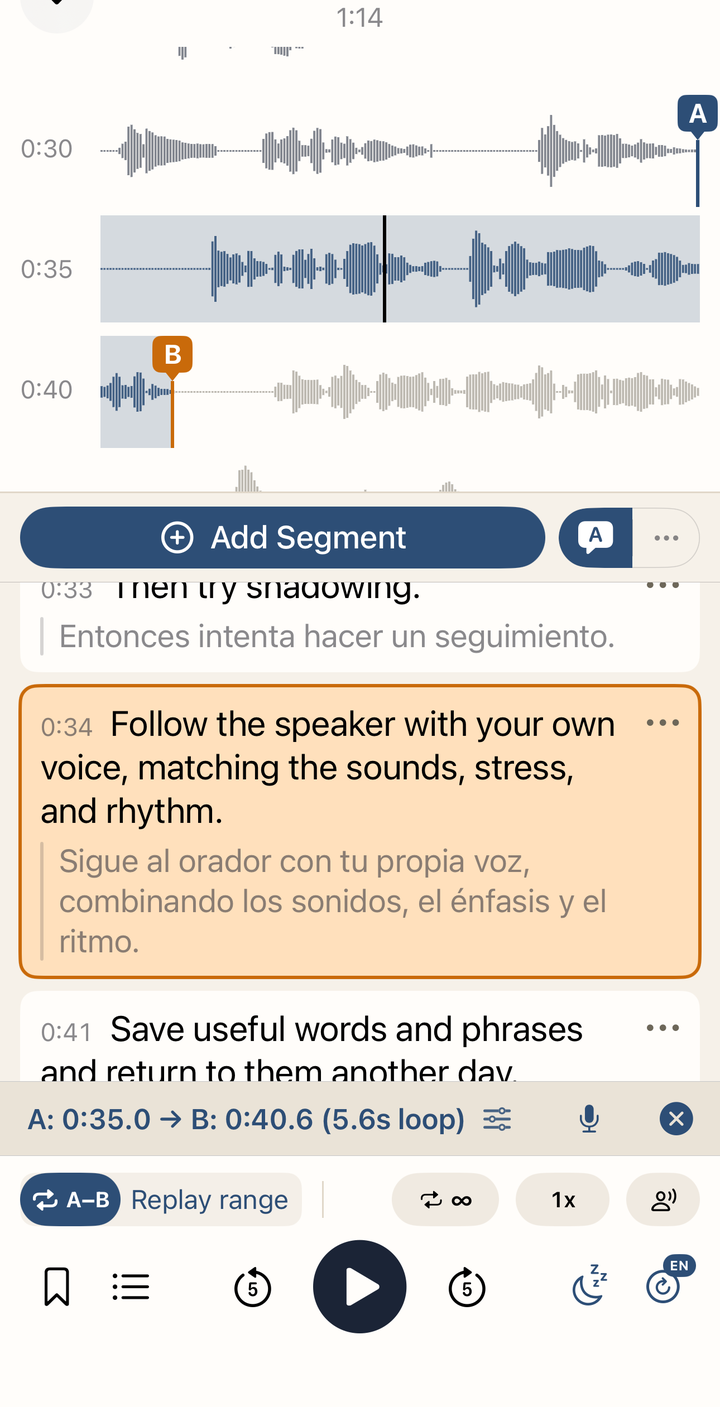
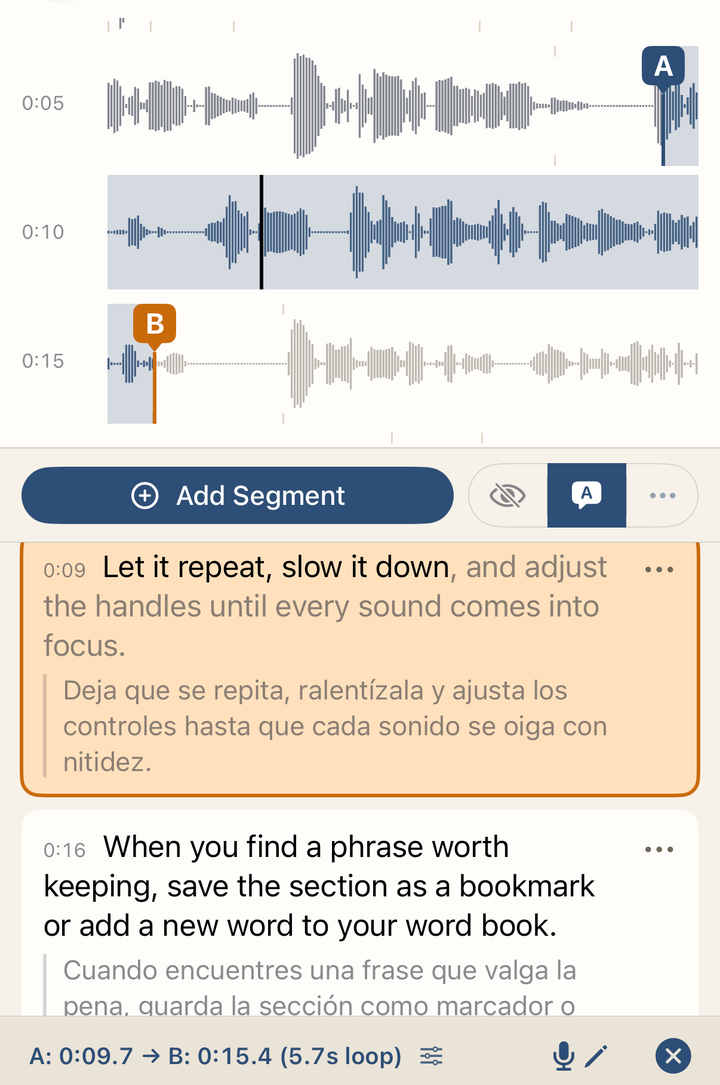
docs: the manual learns 3.1.0 — hiding subtitles, sentence timing, library select all
New 7-6 (hide subtitles: eye button, Entire file / Selected sentences /
A/B range, hidden cards still loop, not saved). 8-1 and 8-2 describe the
shared waveform timing editor, neighbour shortening and Restore original
range / text, replacing the retired 0.5-second steps and Reset. 2-2 gains
Select All and moving search results; 7-1 says Clear Script also removes
retimed sentences; 7-2 the empty-result retry; 7-4 drops the long-gone
Enter Manually. Free list gains hiding and timing.

Captures (iPhone 17 simulator, iOS 26.5, English, 3.1.0 build 29 tree):
new 35 hide menu, 36 A/B range hidden, 37 timing editor; 26 and 25
re-shot. 25's Spanish translation was written into the store on the
simulator, which cannot run Apple Intelligence translation.

using Claude Opus 5.5

diff --git a/en.md b/en.md
@@ -84,7 +84,9 @@ Tap **⋯** at the end of a library row, or touch and hold the row, to open the 
 
 Once at least one favorite exists, the **All / Favorites** chips appear below the wordmark; **Favorites** shows a flat list across the whole library, regardless of folder.
 
-Use **More > New Folder** to create folders. When folders exist, **More > Select** lets you select multiple items and move them together, and **All Items** opens the whole library in one list. Folders can contain other folders.
+Use **More > New Folder** to create folders. When folders exist, **More > Select** lets you select multiple items and move them together. While selecting, **Select All** at the top left picks every file and folder in the list you are viewing; tap it again (**Deselect All**) to clear the selection. Moving a folder moves everything inside it. **All Items** opens the whole library in one list. Folders can contain other folders.
+
+You can also select and move search results. After typing a search, tap **More > Select** (in **All Items**, the **Select** button at the top right) to pick results from different folders at once and move them into one folder. If you have no folders yet, you can create one on the screen where you choose the destination. Changing the search clears the selection.
 
 ### 2-3. Item Types
 Icons and thumbnails help you identify each item type.
@@ -274,7 +276,7 @@ If a file already has subtitles, tapping the subtitle button shows these options
 
 - **Re-run with current language** - Convert again with the current language
 - **Change Language and Re-run** - Change the language and convert again
-- **Clear Script** - Delete the automatically generated subtitles
+- **Clear Script** - Delete the automatically generated subtitles. Sentences whose timing you adjusted are deleted too; sentences you added or whose text you edited are kept
 
 When there are no subtitles yet, long-pressing the subtitle button lets you choose the language before conversion.
 
@@ -291,6 +293,7 @@ Important:
 - Long audio can take several minutes.
 - If you cancel, this conversion stops and existing subtitles are kept.
 - Model downloads and some recovery steps are affected by your Wi-Fi settings.
+- If recognition comes back empty, **Trying another recognition method…** appears and the app tries once more with a different method. If it still cannot create subtitles, a message asks you to check that the audio plays and that the selected language matches. If the file could not be read to the end, you are asked to download or import it again.
 
 ### 7-3. View Results
 When conversion finishes, subtitle cards appear in chronological order.
@@ -307,21 +310,51 @@ Each card may show:
 Tap a subtitle card to set that card's section as A/B and start looping it. The currently playing card is highlighted, and cards inside the A/B range use a different background color. Newly recognized subtitles that include word timing light up word by word as playback advances. Subtitles created earlier or imported from another source may not include word timing, so this effect may not appear.
 
 ### 7-4. Unrecognized Sections
-Silent or hard-to-recognize sections may appear as **Could not recognize** cards. Use **Enter Manually** to type the subtitle yourself.
+Silent or hard-to-recognize sections may appear as **Could not recognize** cards. These cards are informational. To add a subtitle for that section yourself, move the playback position there and tap **Add Segment** (see 8-1).
 
 ### 7-5. Subtitle Information
 If the subtitle info button is visible, you can check the conversion date, recognition engine, and quality guidance. Automatic subtitles can be wrong with any model, so important expressions should be checked and corrected manually.
+
+### 7-6. Hide Subtitles
+When you want to listen by ear without reading along, you can hide the subtitles. Tap the eye button in the capsule above the subtitle area to hide them, and tap it again to show them. A hidden card shows only its start time and **Subtitle hidden**.
+
+Choose what to hide from the **⋯** at the end of the capsule, under **Hide subtitles**.
+
+- **Entire file** - Hides every subtitle
+- **Selected sentences** - Lets you pick the sentences to hide. Tap cards to check them, then tap **Done** at the top
+- **A/B range** - Hides only the sentences that overlap the current A/B range. When the A/B range changes, the hidden sentences follow it
+
+![Hide subtitles menu](images/iphone/35-subtitle-hide-menu.png)
+*▲ Choose what to hide under Hide subtitles in the ⋯ menu*
+
+Tapping a hidden card still sets that sentence as the A/B range and loops it. With **A/B range**, every sentence you tap loops while hidden, so you can listen first and then check the text with the eye button.
+
+![Only the A/B range hidden](images/iphone/36-subtitle-hide-ab.png)
+*▲ A/B range — only the sentences being looped are hidden; the ones around them stay visible*
+
+- Hiding subtitles is available in the audio player's subtitle view. It is not available for video files or YouTube.
+- The hidden state is not saved. When you close the player and open it again, all subtitles are visible.
 
 
 ## 8. Editing, Translating, and Adding Subtitles
 
 ### 8-1. Add a Subtitle Manually
-Tap **Add Segment** above the subtitle area to create a new subtitle segment based on the current playback position. You can adjust the start and end in 0.5-second steps, preview the range, and enter the text yourself.
+Tap **Add Segment** above the subtitle area to open the editor with a new 5-second segment starting at the current playback position. In **Adjust timing** at the top, drag the start and end handles on the waveform or use the buttons next to **Start** and **End** to move them 0.1 seconds at a time, and use the play button to hear only that range (see 8-2). Then type the text yourself.
 
 To recognize the speech again, confirm the language under **Recognition language** and tap **Recognize again**. The result appears as a preview and never replaces your draft automatically. If it looks useful, tap **Put in editor**, make any corrections, and then tap **Add** at the top to save it.
 
 ### 8-2. Edit a Subtitle
-Open a subtitle card's **⋯** menu, or touch and hold the card, and choose **Edit** to modify the text. If you edited an STT-generated subtitle, the original text is shown as well, and you can use **Reset** if needed. The editor also lets you use **Recognize again** for only that sentence range and bring the preview into the draft with **Put in editor**. Nothing is saved until you tap **Save** at the top.
+Open a subtitle card's **⋯** menu, or touch and hold the card, and choose **Edit** to open the editor. You can change the sentence's start and end times as well as its text.
+
+- **Adjust timing** - Drag the start and end handles on the waveform, or use the −/+ buttons next to **Start** and **End** to move them 0.1 seconds at a time. The buttons under the waveform show earlier or later audio and zoom in or out, and the middle button fits the view to the sentence again. The play button plays only the adjusted range.
+- **Adjacent sentence timing changes** - If you extend a boundary into the sentence before or after, that neighbor is shortened by the overlap, and this area previews the change. If you shorten the boundary again later, the borrowed part goes back to the neighbor. A neighbor that already overlapped this sentence is left unchanged.
+- **Restore original range** - Once you change the timing, **Original range** shows the original range, and this button restores it at any time. If the current boundaries of the neighboring sentences make that impossible, a message asks you to adjust the range manually.
+- **Restore original text** - If you edit the text of an STT-generated subtitle, the original text is shown as well, and this button brings it back.
+
+![Adjusting a sentence's timing](images/iphone/37-segment-timing.png)
+*▲ Extending the end shows the original range and the next sentence that gets shorter*
+
+The editor also lets you use **Recognize again** for only the range you have set and bring the preview into the draft with **Put in editor**. Neither the timing nor the text is saved until you tap **Save** at the top.
 
 ![Recognizing one segment again](images/iphone/26-segment-recognition.png)
 *▲ Recognition produces a preview; your draft is left alone until you insert it*
@@ -757,6 +790,7 @@ Resetting learning stats cannot be undone.
 - Create 1 new audio bookmark per file
 - Create 1 new video bookmark per video
 - Open existing audio bookmarks saved during Premium or the free trial
+- Hiding subtitles and adjusting sentence timing (audio files with subtitles)
 - Learning stats
 
 ### Available During Premium or Free Trial
